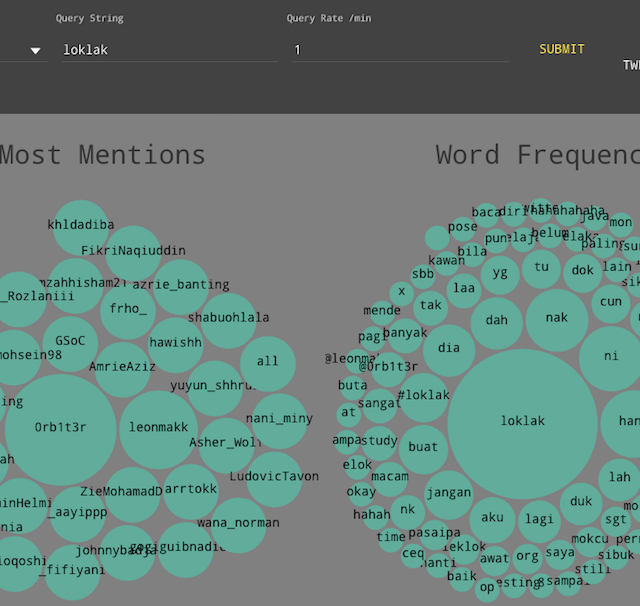
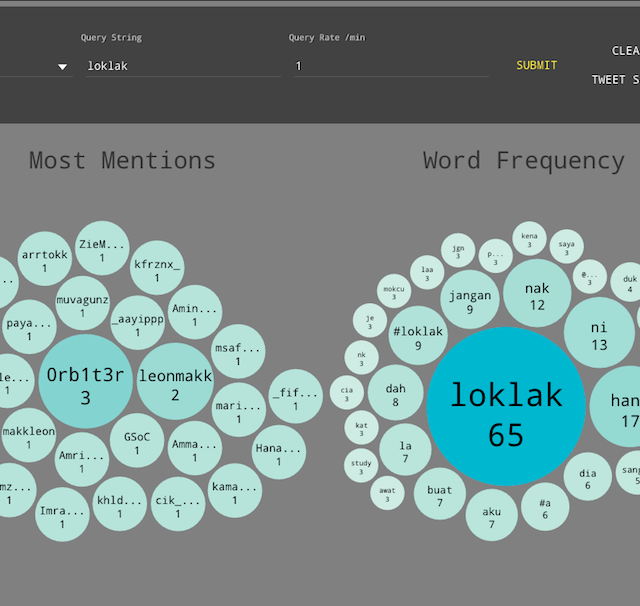
Added color & zooming to fit text for bubble charts

diff --git a/html/apps/barchart/charts/bubbleCloud.js b/html/apps/barchart/charts/bubbleCloud.js
@@ -17,13 +17,17 @@ angular.module('myApp')
 .directive('bubbleCloud', [ 
 
   function () {
+      
+    var diameter = 500,
+    length = 100,
+    color = d3.scale.linear().domain([1,length])
+    .interpolate(d3.interpolateHcl)
+    .range([d3.rgb("#FFFFFF"), d3.rgb('#17becf')]);
+
 
     var link = function ($scope, $el, $attrs) {
         
-        var diameter = 500;
-
         var id = '#bubbleCloud_'+$scope.$id;
-
         
         var svg = d3.select($el[0]).append('svg')
             .attr('width', diameter)
@@ -40,10 +44,41 @@ angular.module('myApp')
             .sort(function(a, b) { // biggest in the middle
                 return -(a.value - b.value);
             }) 
-            .padding(3);
+            .padding(5);
         
         // remember to set to true to watch values, if not $watch will not run as reference same
         $scope.$watch('data', update, true);
+        
+        
+        // clip text while if zoom
+        function clipText (d, t, scale) {
+            if (d.r < 20/scale) {
+                return "";
+            }
+            console.log(scale)
+            var name = t.substring(0, d.r/scale);
+            if (name.length < t.length) {
+                name = name.substring (0, name.length - Math.min(4, name.length)) + "...";
+            }
+            return name;
+        }
+        
+        // Setup zooming
+        function zoomed() {
+        var scale=d3.event.scale;
+        var fontsize = 10;
+        console.log('fontsize/scale')
+        console.log(fontsize/scale)
+          chart.attr("transform", "translate(" + d3.event.translate + ")scale(" + d3.event.scale + ")");
+          chart.selectAll('.nodeTextToClip')
+          .style('font-size', function(d){ return d.r/scale/2.4})
+          .text(function(d){return clipText(d, d.name,fontsize/scale/2.5 );})
+        }
+
+        var zoom = d3.behavior.zoom()
+        .scaleExtent([-10, 50])
+        .on("zoom", zoomed);
+        zoom(svg);
         
         function update(mentionFreq) {
             // console.log("updating");
@@ -87,9 +122,9 @@ angular.module('myApp')
             // filter out the outer bubble for pack layout
             // console.log(nodes);
             
+            // input data
             var vis = chart.selectAll('.bubble')
             .data(nodes);
-            
             // console.log(vis);
             
             // add attr to each entered group consisting of <circle> and <text>
@@ -99,13 +134,31 @@ angular.module('myApp')
             enter.append('circle')
             .attr('r', function(d) { return d.r; })
             .attr('class', function(d) { return d.className; })
+            .attr('fill', function(d){                 
+                return color(d.r+10); })
             
-            enter.append("text")
+            // Add bubble text
+            var text = enter.append("text")
             .attr("dy", ".1em")
             .style("text-anchor", "middle")
-            .text(function (d) { return d.name; });
-
-            // transition the selected groups
+            
+            text.append("tspan")
+            .attr("class", "nodeTextToClip")
+            .attr("x", "0")
+            .attr("dy", "0")
+            .style("font-size", function(d){ return d.r/2.5 ;})
+            .text(function(d) { return clipText(d, d.name, 4); });
+            
+            text.append("tspan")
+            .attr("x", "0")
+            .attr("dy", function(d){return d.r/2})
+            .style("font-weight", "100")
+            .style("font-size", function(d){ return d.r/2.5 ;})
+            .text(function(d) {
+                return d.value;
+            });
+            
+            // Transition the selected groups
             vis.transition().duration(1000)
             .attr("transform", function (d) { 
                 return "translate(" + d.x + "," + d.y + ")";
@@ -120,7 +173,7 @@ angular.module('myApp')
         // }
         
         // $scope.$on('windowResize',resize);
-
+        
     };
     return {
       template:'<div layout="column"><h2 style="text-align:center">{{title}}</h2><div id="bubbleCloud_{{$id}}"</div></div>',

diff --git a/html/apps/bubblecharts/charts/bubbleCloud.js b/html/apps/bubblecharts/charts/bubbleCloud.js
@@ -17,13 +17,17 @@ angular.module('myApp')
 .directive('bubbleCloud', [ 
 
   function () {
+      
+    var diameter = 500,
+    length = 100,
+    color = d3.scale.linear().domain([1,length])
+    .interpolate(d3.interpolateHcl)
+    .range([d3.rgb("#FFFFFF"), d3.rgb('#17becf')]);
+
 
     var link = function ($scope, $el, $attrs) {
         
-        var diameter = 500;
-
         var id = '#bubbleCloud_'+$scope.$id;
-
         
         var svg = d3.select($el[0]).append('svg')
             .attr('width', diameter)
@@ -40,10 +44,41 @@ angular.module('myApp')
             .sort(function(a, b) { // biggest in the middle
                 return -(a.value - b.value);
             }) 
-            .padding(3);
+            .padding(5);
         
         // remember to set to true to watch values, if not $watch will not run as reference same
         $scope.$watch('data', update, true);
+        
+        
+        // clip text while if zoom
+        function clipText (d, t, scale) {
+            if (d.r < 20/scale) {
+                return "";
+            }
+            console.log(scale)
+            var name = t.substring(0, d.r/scale);
+            if (name.length < t.length) {
+                name = name.substring (0, name.length - Math.min(4, name.length)) + "...";
+            }
+            return name;
+        }
+        
+        // Setup zooming
+        function zoomed() {
+        var scale=d3.event.scale;
+        var fontsize = 10;
+        console.log('fontsize/scale')
+        console.log(fontsize/scale)
+          chart.attr("transform", "translate(" + d3.event.translate + ")scale(" + d3.event.scale + ")");
+          chart.selectAll('.nodeTextToClip')
+          .style('font-size', function(d){ return d.r/scale/2.4})
+          .text(function(d){return clipText(d, d.name,fontsize/scale/2.5 );})
+        }
+
+        var zoom = d3.behavior.zoom()
+        .scaleExtent([-10, 50])
+        .on("zoom", zoomed);
+        zoom(svg);
         
         function update(mentionFreq) {
             // console.log("updating");
@@ -87,9 +122,9 @@ angular.module('myApp')
             // filter out the outer bubble for pack layout
             // console.log(nodes);
             
+            // input data
             var vis = chart.selectAll('.bubble')
             .data(nodes);
-            
             // console.log(vis);
             
             // add attr to each entered group consisting of <circle> and <text>
@@ -99,13 +134,31 @@ angular.module('myApp')
             enter.append('circle')
             .attr('r', function(d) { return d.r; })
             .attr('class', function(d) { return d.className; })
+            .attr('fill', function(d){                 
+                return color(d.r+10); })
             
-            enter.append("text")
+            // Add bubble text
+            var text = enter.append("text")
             .attr("dy", ".1em")
             .style("text-anchor", "middle")
-            .text(function (d) { return d.name; });
-
-            // transition the selected groups
+            
+            text.append("tspan")
+            .attr("class", "nodeTextToClip")
+            .attr("x", "0")
+            .attr("dy", "0")
+            .style("font-size", function(d){ return d.r/2.5 ;})
+            .text(function(d) { return clipText(d, d.name, 4); });
+            
+            text.append("tspan")
+            .attr("x", "0")
+            .attr("dy", function(d){return d.r/2})
+            .style("font-weight", "100")
+            .style("font-size", function(d){ return d.r/2.5 ;})
+            .text(function(d) {
+                return d.value;
+            });
+            
+            // Transition the selected groups
             vis.transition().duration(1000)
             .attr("transform", function (d) { 
                 return "translate(" + d.x + "," + d.y + ")";
@@ -120,7 +173,7 @@ angular.module('myApp')
         // }
         
         // $scope.$on('windowResize',resize);
-
+        
     };
     return {
       template:'<div layout="column"><h2 style="text-align:center">{{title}}</h2><div id="bubbleCloud_{{$id}}"</div></div>',

diff --git a/html/apps/bubblecharts/index.html b/html/apps/bubblecharts/index.html
@@ -102,7 +102,7 @@
               </md-content>
               <div ng-controller='bubbleCloudCtrl' layout="row" layout-align="center center">
                   <bubble-cloud data="$storage.mentionFreq" min ="1" title="Most Mentions"></bubble-cloud>
-                  <bubble-cloud data="$storage.wordFreq" min="2" title="Word Frequency"></bubble-cloud>     
+                  <bubble-cloud data="$storage.wordFreq" min="3" title="Word Frequency"></bubble-cloud>     
               </div>
           </form>
           

diff --git a/html/apps/barchart/charts/bubbleCloud.html b/html/apps/barchart/charts/bubbleCloud.html
@@ -1,0 +1,4 @@
+<div ng-controller='bubbleCloudCtrl' layout="row" layout-align="center center">
+  <bubble-cloud data="$storage.mentionFreq" min ="1" title="Most Mentions"></bubble-cloud>
+  <bubble-cloud data="$storage.wordFreq" min="3" title="Word Frequency"></bubble-cloud>     
+</div>

diff --git a/html/apps/barchart/css/style.css b/html/apps/barchart/css/style.css
@@ -170,10 +170,7 @@ md-toolbar button.md-button.md-icon-button:first-child md-icon {
   visibility: visible;
   opacity: 1;
 }
-.bubbles { 
-  fill: #45B29D; 
-  background: #45B29D;
-}
+
 .d3-tip {
   line-height: 1;
   font-weight: bold;

diff --git a/html/apps/bubblecharts/css/style.css b/html/apps/bubblecharts/css/style.css
@@ -170,7 +170,3 @@ md-toolbar button.md-button.md-icon-button:first-child md-icon {
   visibility: visible;
   opacity: 1;
 }
-.bubbles { 
-  fill: #45B29D; 
-  background: #45B29D;
-}
